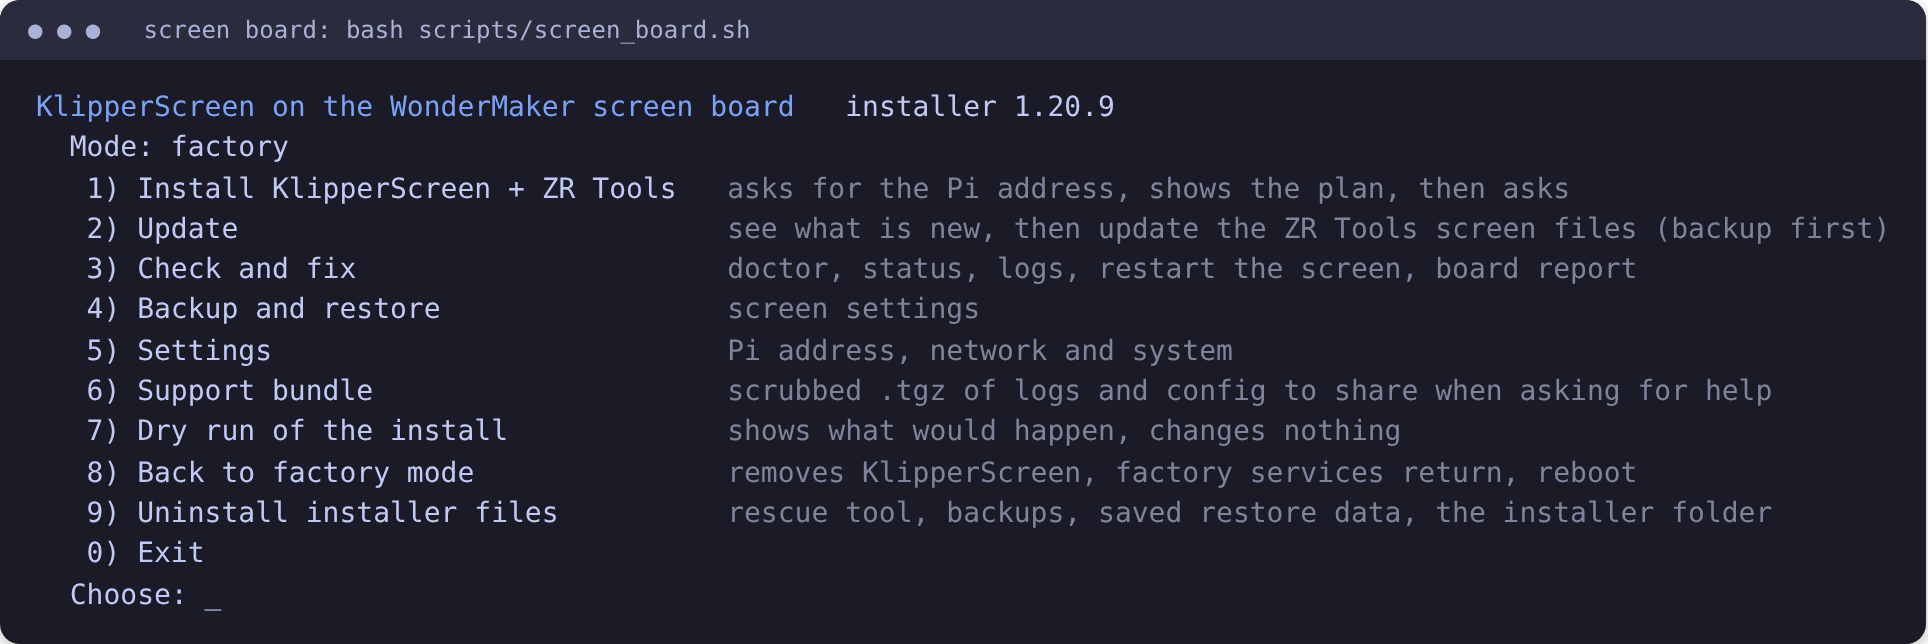
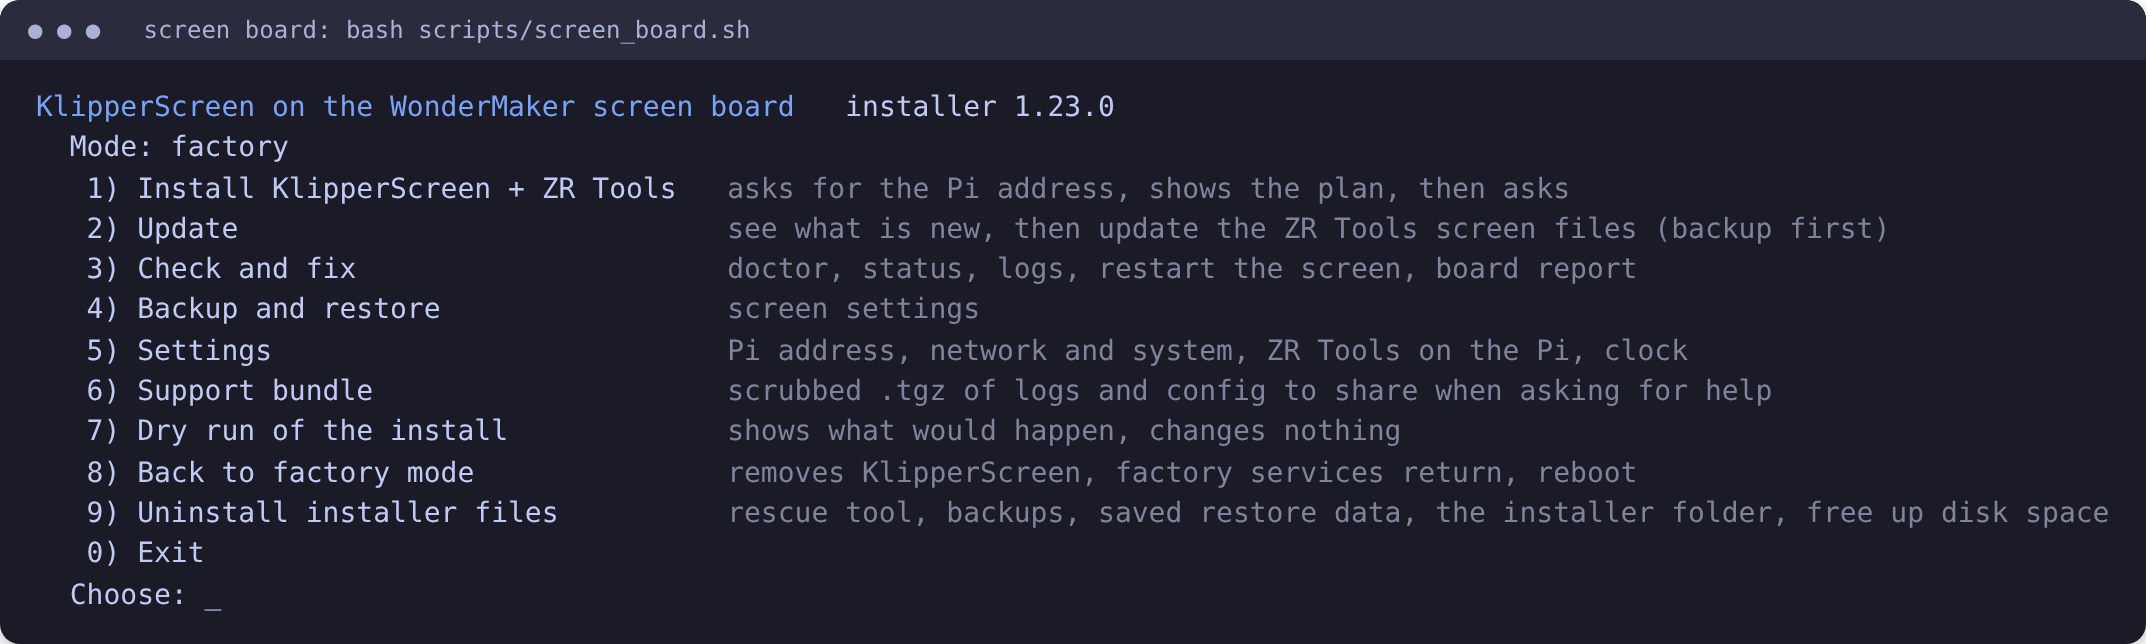
1.23.1: board --help fixed, edited zr_tools.cfg is kept, README tables, tests run on a copy
Claude-Session: https://claude.ai/code/session_01RLnHmx2p8s5454mQAvDeQs

diff --git a/README.md b/README.md
@@ -447,6 +447,8 @@ Your gcode files, settings, KlipperScreen and the factory software are never in 
   2. if all three are fine it says **already installed** and changes nothing;
   3. if something is missing it installs it (your old files are kept as `.zrbak_<date>`), then restarts Klipper on the Pi (never during a print).
 
+  A `zr_tools.cfg` you edited counts as installed as long as it still has every macro the screen needs; it is never replaced behind your back. To replace it with the bundled copy on the Pi: `ZR_REPLACE=1 ./installer.sh --zr-tools`.
+
   Later, run it alone with `bash scripts/screen_board.sh --zr-pi --pi <Pi address>` or Settings > Set up ZR Tools on the Pi. On the Pi itself: `./installer.sh --zr-tools`, or menu 3 Add-ons > ZR Tools macros (screen board).
 
 > The board's kernel has no virtual console (`/dev/tty0`), so the installer runs X on its own seat (display, framebuffer and touch assigned to `seat1`) with a custom service.
@@ -507,11 +509,11 @@ KlipperScreen on the WonderMaker screen board
    2) Update                             see what is new, then update the ZR Tools screen files (backup first)
    3) Check and fix                      doctor, status, logs, restart the screen, board report
    4) Backup and restore                 screen settings
-   5) Settings                           Pi address, network and system
+   5) Settings                           Pi address, network and system, ZR Tools on the Pi, clock
    6) Support bundle                     scrubbed .tgz of logs and config to share when asking for help
    7) Dry run of the install             shows what would happen, changes nothing
    8) Back to factory mode               removes KlipperScreen, factory services return, reboot
-   9) Uninstall installer files          rescue tool, backups, saved restore data, the installer folder
+   9) Uninstall installer files          rescue tool, backups, saved restore data, the installer folder, free up disk space
    0) Exit
 ```
 
@@ -520,9 +522,9 @@ KlipperScreen on the WonderMaker screen board
 | **Update** | **See what is new** reads only two small files from GitHub (`VERSION` and `CHANGELOG.md`) and lists the changes since your version; nothing is downloaded. **Update now** downloads the newest version, makes a backup of your screen settings, copies the new ZR Tools panels, refreshes the installer folder and restarts the menu on the new version. KlipperScreen itself (the pinned commit) is not changed | `--check-updates`, `--update` |
 | **Check and fix** | **Doctor** (asks before each fix: KlipperScreen enabled and running, ZR Tools files, factory services still enabled, the Pi answers at its address, disk space), **Fix everything** (the Doctor applies every safe fix after one question), Status, the last log lines, Restart the screen, a read-only board report (`/tmp/screen_board_report.txt`) and the Pre-check (READY / NOT READY) | `--doctor [--fix-all]`, `--status`, `--log`, `--restart-screen` |
 | **Backup and restore** | Saves `KlipperScreen.conf`, the ZR Tools settings and the list of factory services to `~/wm-screen-backups/`; a restore lists them, newest first, and makes a safety copy first | `--backup`, `--restore-backup [N]` |
-| **Settings** | Change the Pi address; Network and system (host name, time zone, clock, addresses, Wi-Fi) | `--set-pi ADDR`, `--system [tz:Zone\|host:name]` |
+| **Settings** | Change the Pi address; Network and system (host name, time zone, clock, addresses, Wi-Fi); **Set up ZR Tools on the Pi** (checks the Pi, installs the macros if missing); **Fix the clock** (automatic time sync) | `--set-pi ADDR`, `--system [tz:Zone\|host:name]`, `--zr-pi --pi ADDR`, `--fix-clock` |
 | **Support bundle** | A scrubbed `~/wm-screen-support-<date>.tgz` (passwords, tokens, Wi-Fi names, private IP and MAC addresses removed; look inside before you send it) | `--support-bundle` |
-| **Uninstall installer files** | Each one asks first: the rescue tool and the on-screen Factory mode button; backups, support bundles and the board report; the saved restore data `~/wm-screen-backup` (refused while KlipperScreen is installed, because a factory restore needs it, unless `--force`); the downloaded installer folder. KlipperScreen itself is only removed by **Back to factory mode** | `--remove rescue\|backups\|restoredata\|installer` |
+| **Uninstall installer files** | Each one asks first: the rescue tool and the on-screen Factory mode button; backups, support bundles and the board report; the saved restore data `~/wm-screen-backup` (refused while KlipperScreen is installed, because a factory restore needs it, unless `--force`); the downloaded installer folder; **Free up disk space** (see below). KlipperScreen itself is only removed by **Back to factory mode** | `--remove rescue\|backups\|restoredata\|installer`, `--free-space` |
 
 - **Progress bars:** the install shows "Install step N of 7" with a percent bar, Back to factory mode shows "Factory restore step N of 3", and slow steps (apt packages, the KlipperScreen Python build) print "still working" with the elapsed time every 30 seconds.
 - **Klipper restart:** after an install or update the board restarts KlipperScreen and asks the Pi's Moonraker to restart Klipper on the Pi (never during a print; skipped with a note if the Pi does not answer or does not trust the board's address).

diff --git a/CHANGELOG.md b/CHANGELOG.md
@@ -1,5 +1,13 @@
 # Changelog
 
+## 1.23.1
+
+- `screen_board.sh --help` printed only the two-line title. It now prints the full list of options.
+- `installer.sh --help` now lists `--zr-tools`.
+- ZR Tools on the Pi: a `zr_tools.cfg` you edited now counts as installed as long as it still has every macro the screen needs. Before, any difference made the installer replace it (old copy kept) and restart Klipper each time. To replace it on purpose: `ZR_REPLACE=1 ./installer.sh --zr-tools`.
+- README: the screen board tables and menu text now list Set up ZR Tools on the Pi, Fix the clock and Free up disk space.
+- Tests always run on a throwaway copy of the repository, never on the real folder.
+
 ## 1.23.0
 
 - Pi installer: **Free up disk space**, same as on the screen board. New last entry in the Uninstall page and the option `--free-space`: lists what is safe to erase (leftover installer downloads in /tmp, pip cache, apt package cache, old system log history, old rotated printer logs, the installer's git history) with sizes and a warning for each, you pick, it shows "This will ERASE" and asks first. Your printer data, gcode files and backups are never listed; `--yes` alone never erases.
